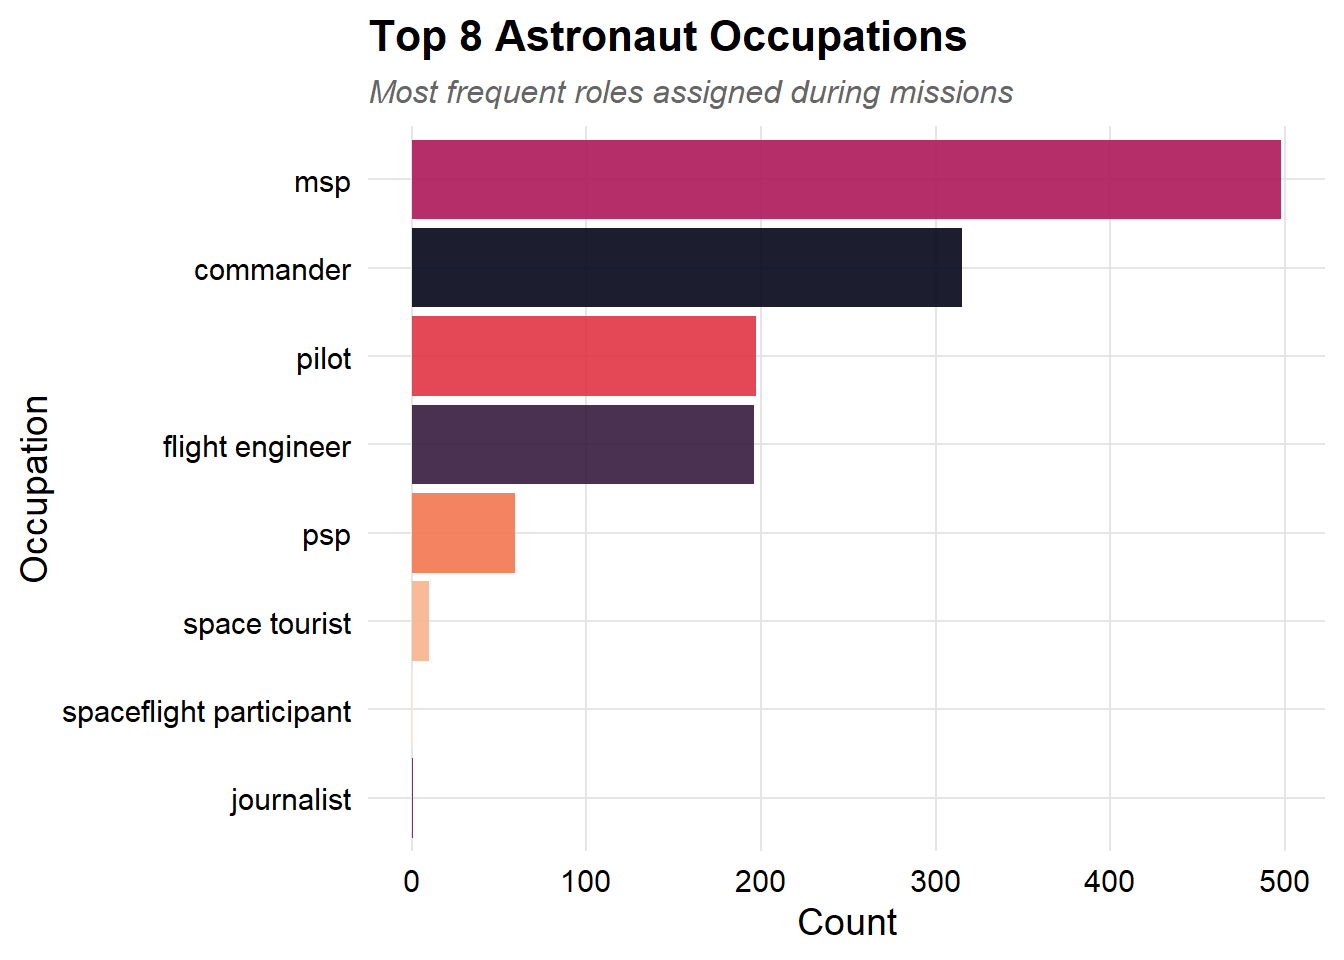
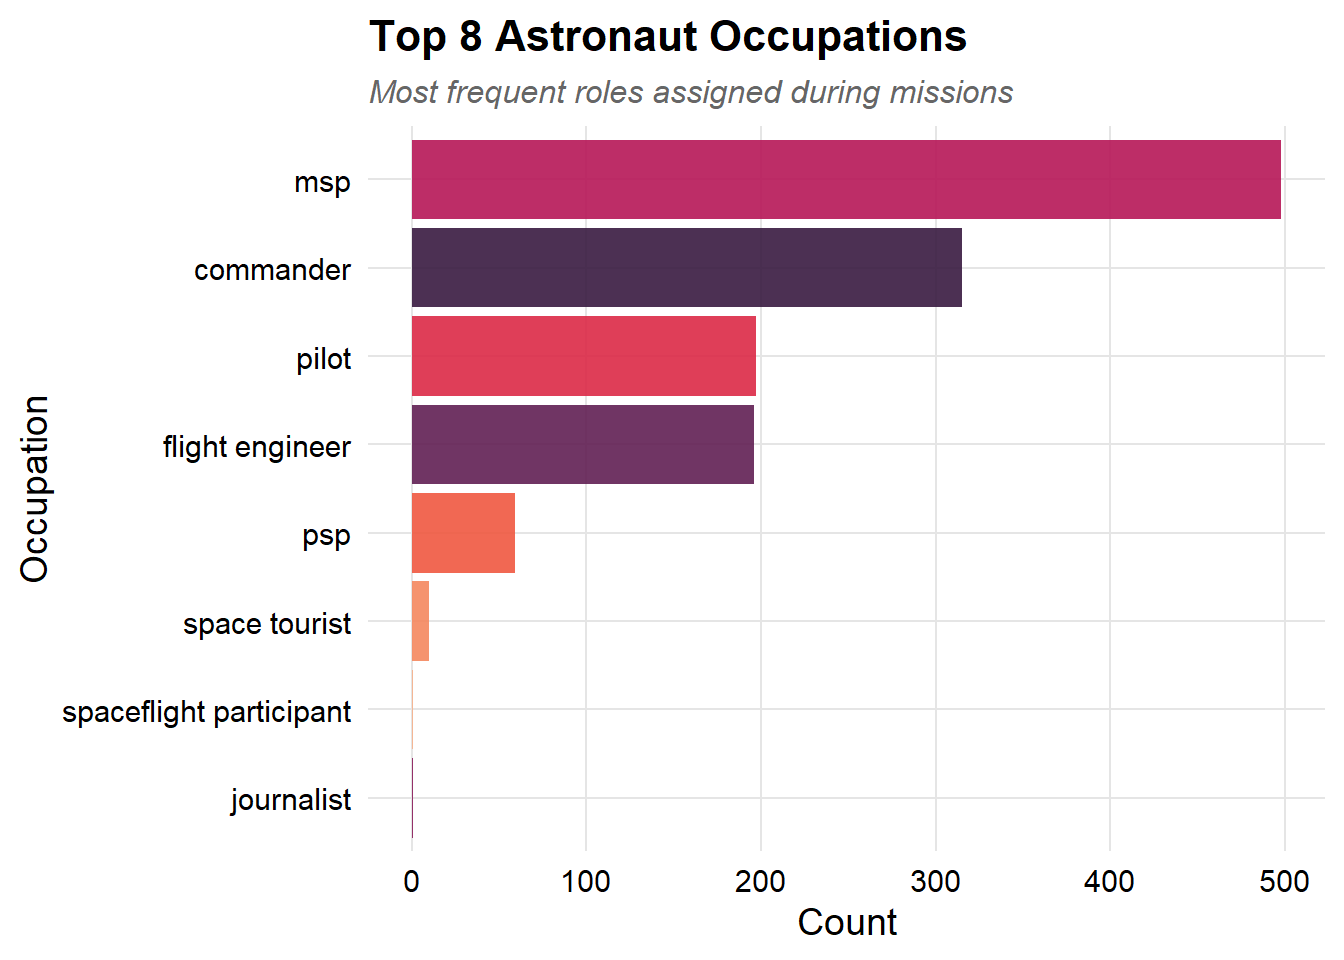
cleaning directory

Changed region(s): [[0.2812, 0.2188, 0.7188, 0.3438], [0.2812, 0.4062, 0.5625, 0.6875]]

diff --git a/README.md b/README.md
@@ -79,7 +79,7 @@ We developed three classification models designed to prevent **Data Leakage** (l
 - **Anti-Bias Measure**: Removed future cumulative space/EVA hours to prevent look-ahead bias (data leakage).
 - **Imbalance Correction**: Applied case weights (`case_wts`) calculated via inverse class frequencies directly to the workflow.
 - **Tuning**: Bayesian Optimization on `penalty` (regularization strength) and `mixture` (L1/L2 ratio).
-- **Variable Importance**: Selection era (early Space Race vs ISS) and Soviet/Russian nationalities are highly predictive of a military background.
+- **Variable Importance**: The astronaut's nationality group (specifically US and Russia groups) and designated occupations (such as mission specialists and flight engineers) are the most dominant predictors, followed by country-specific selection era interactions.
 
   ![Elastic Net Confusion Matrix](images/model2-viz-1.png)
 